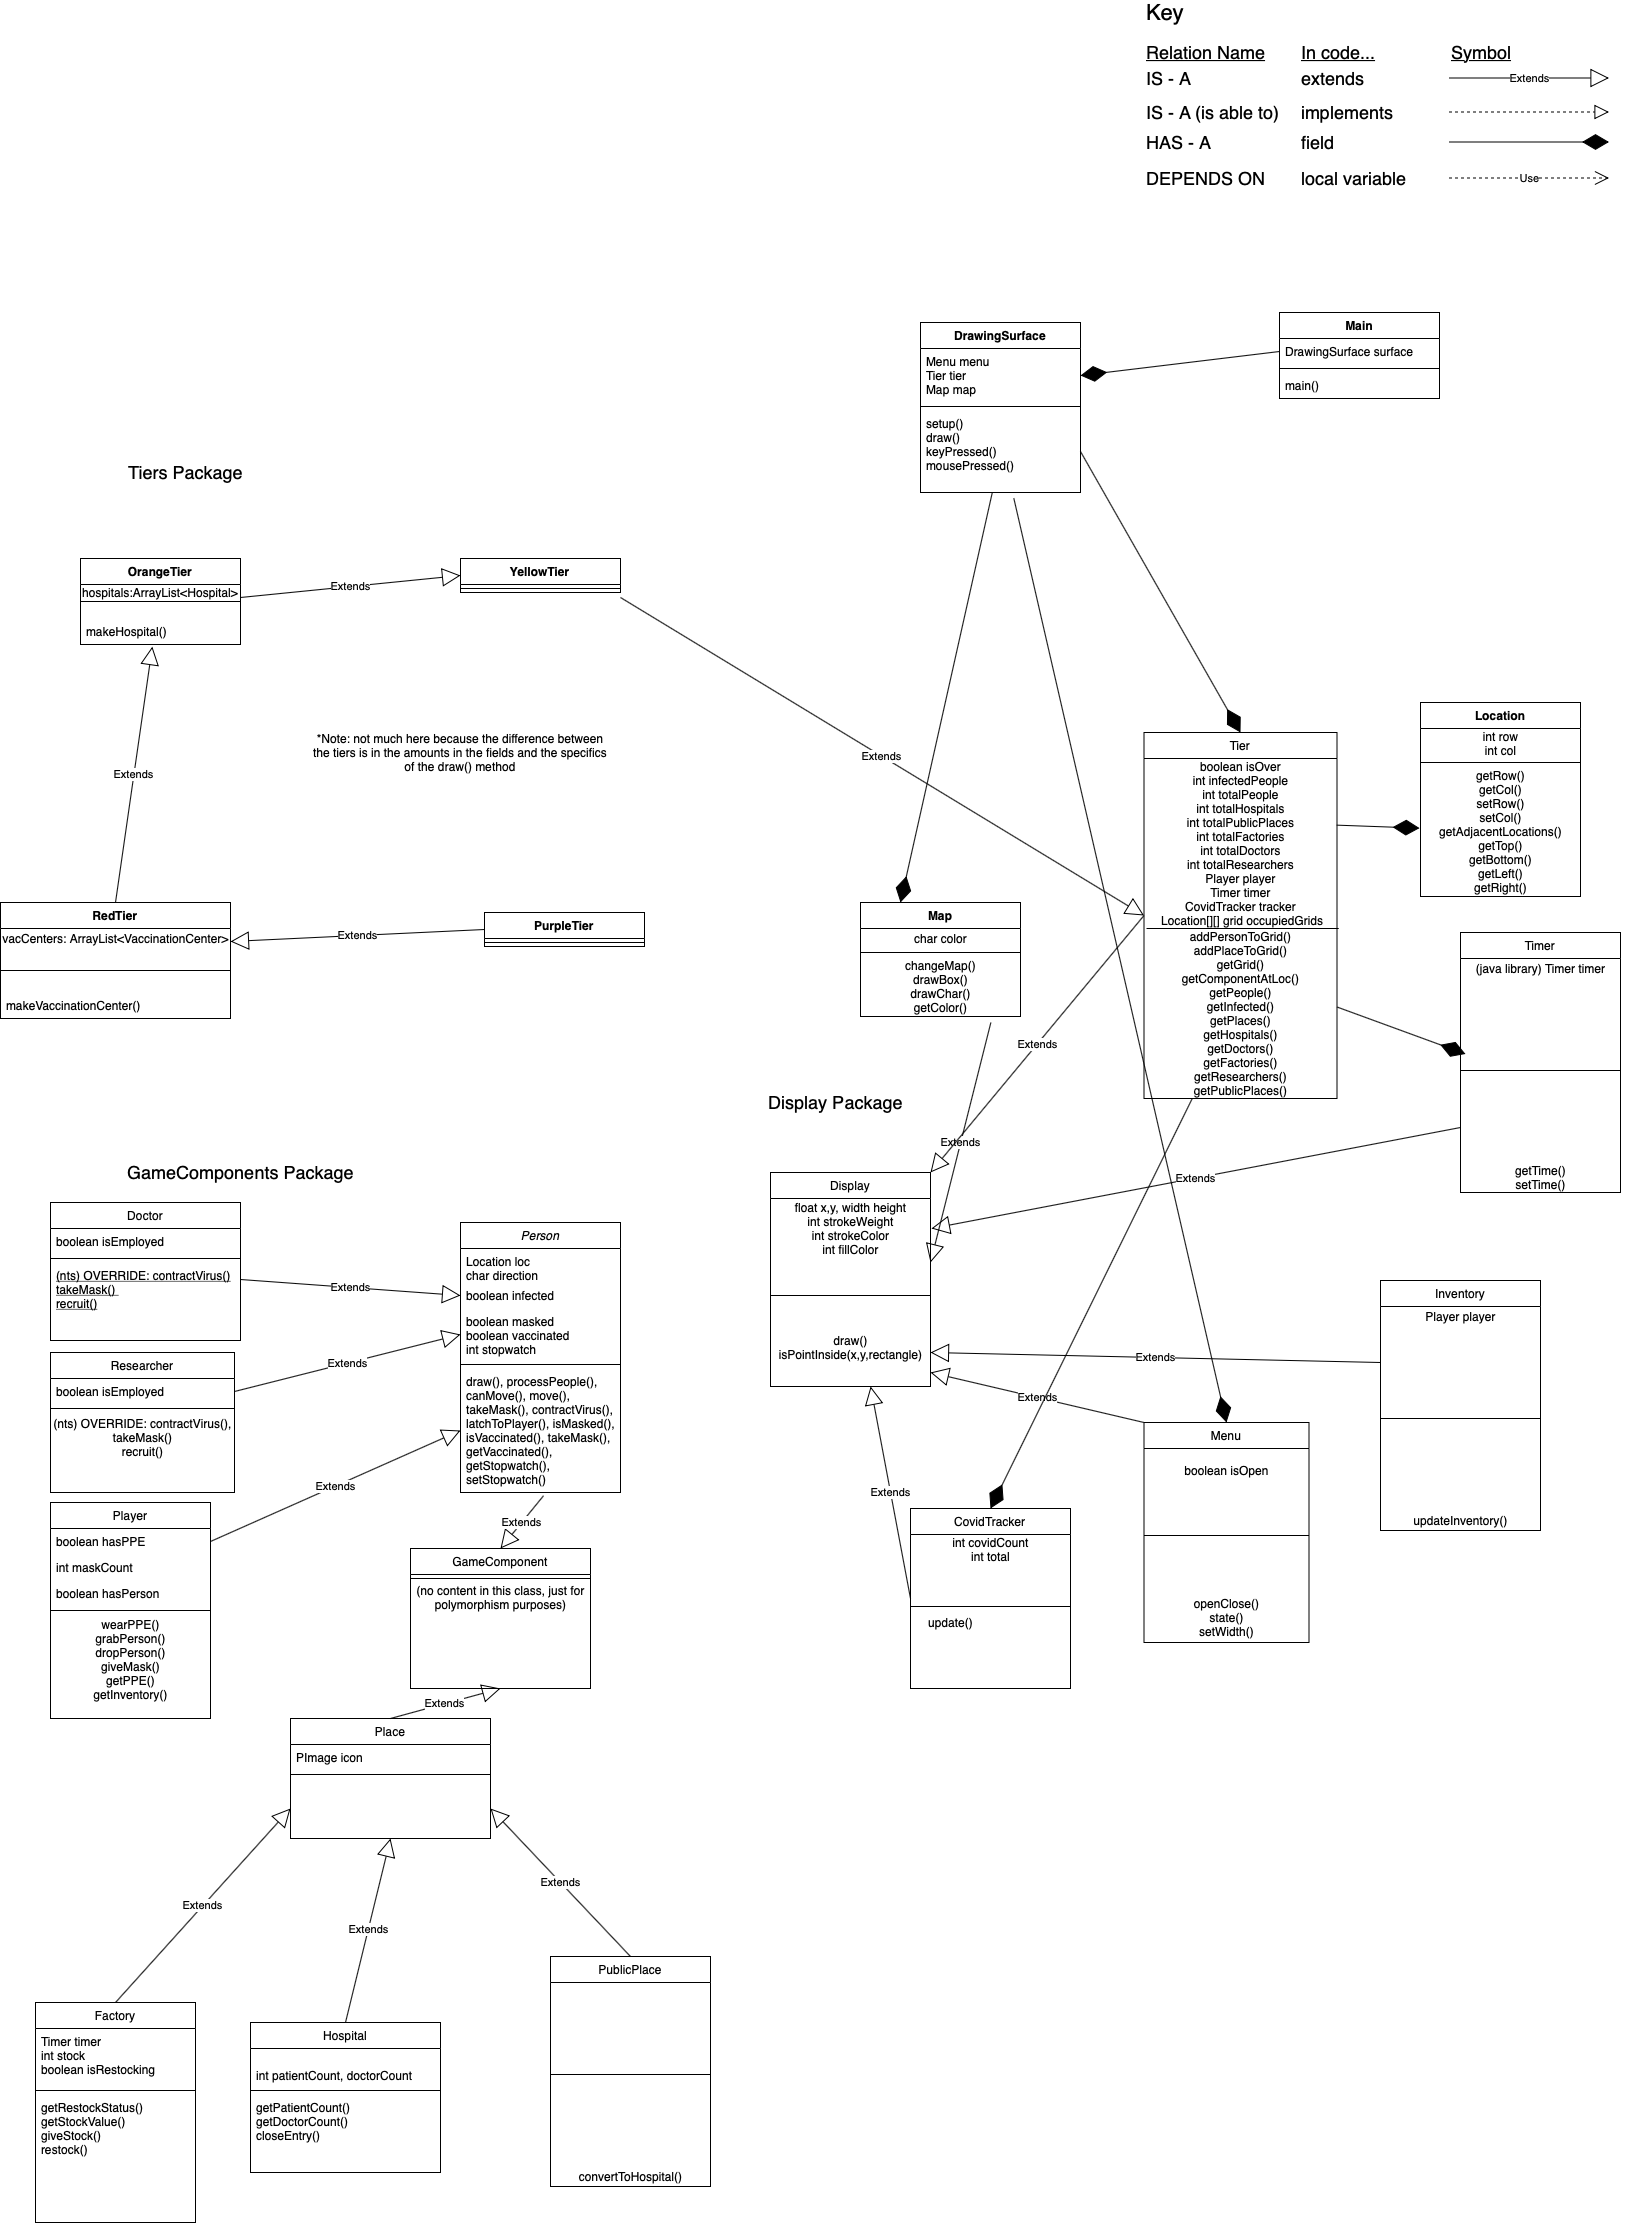
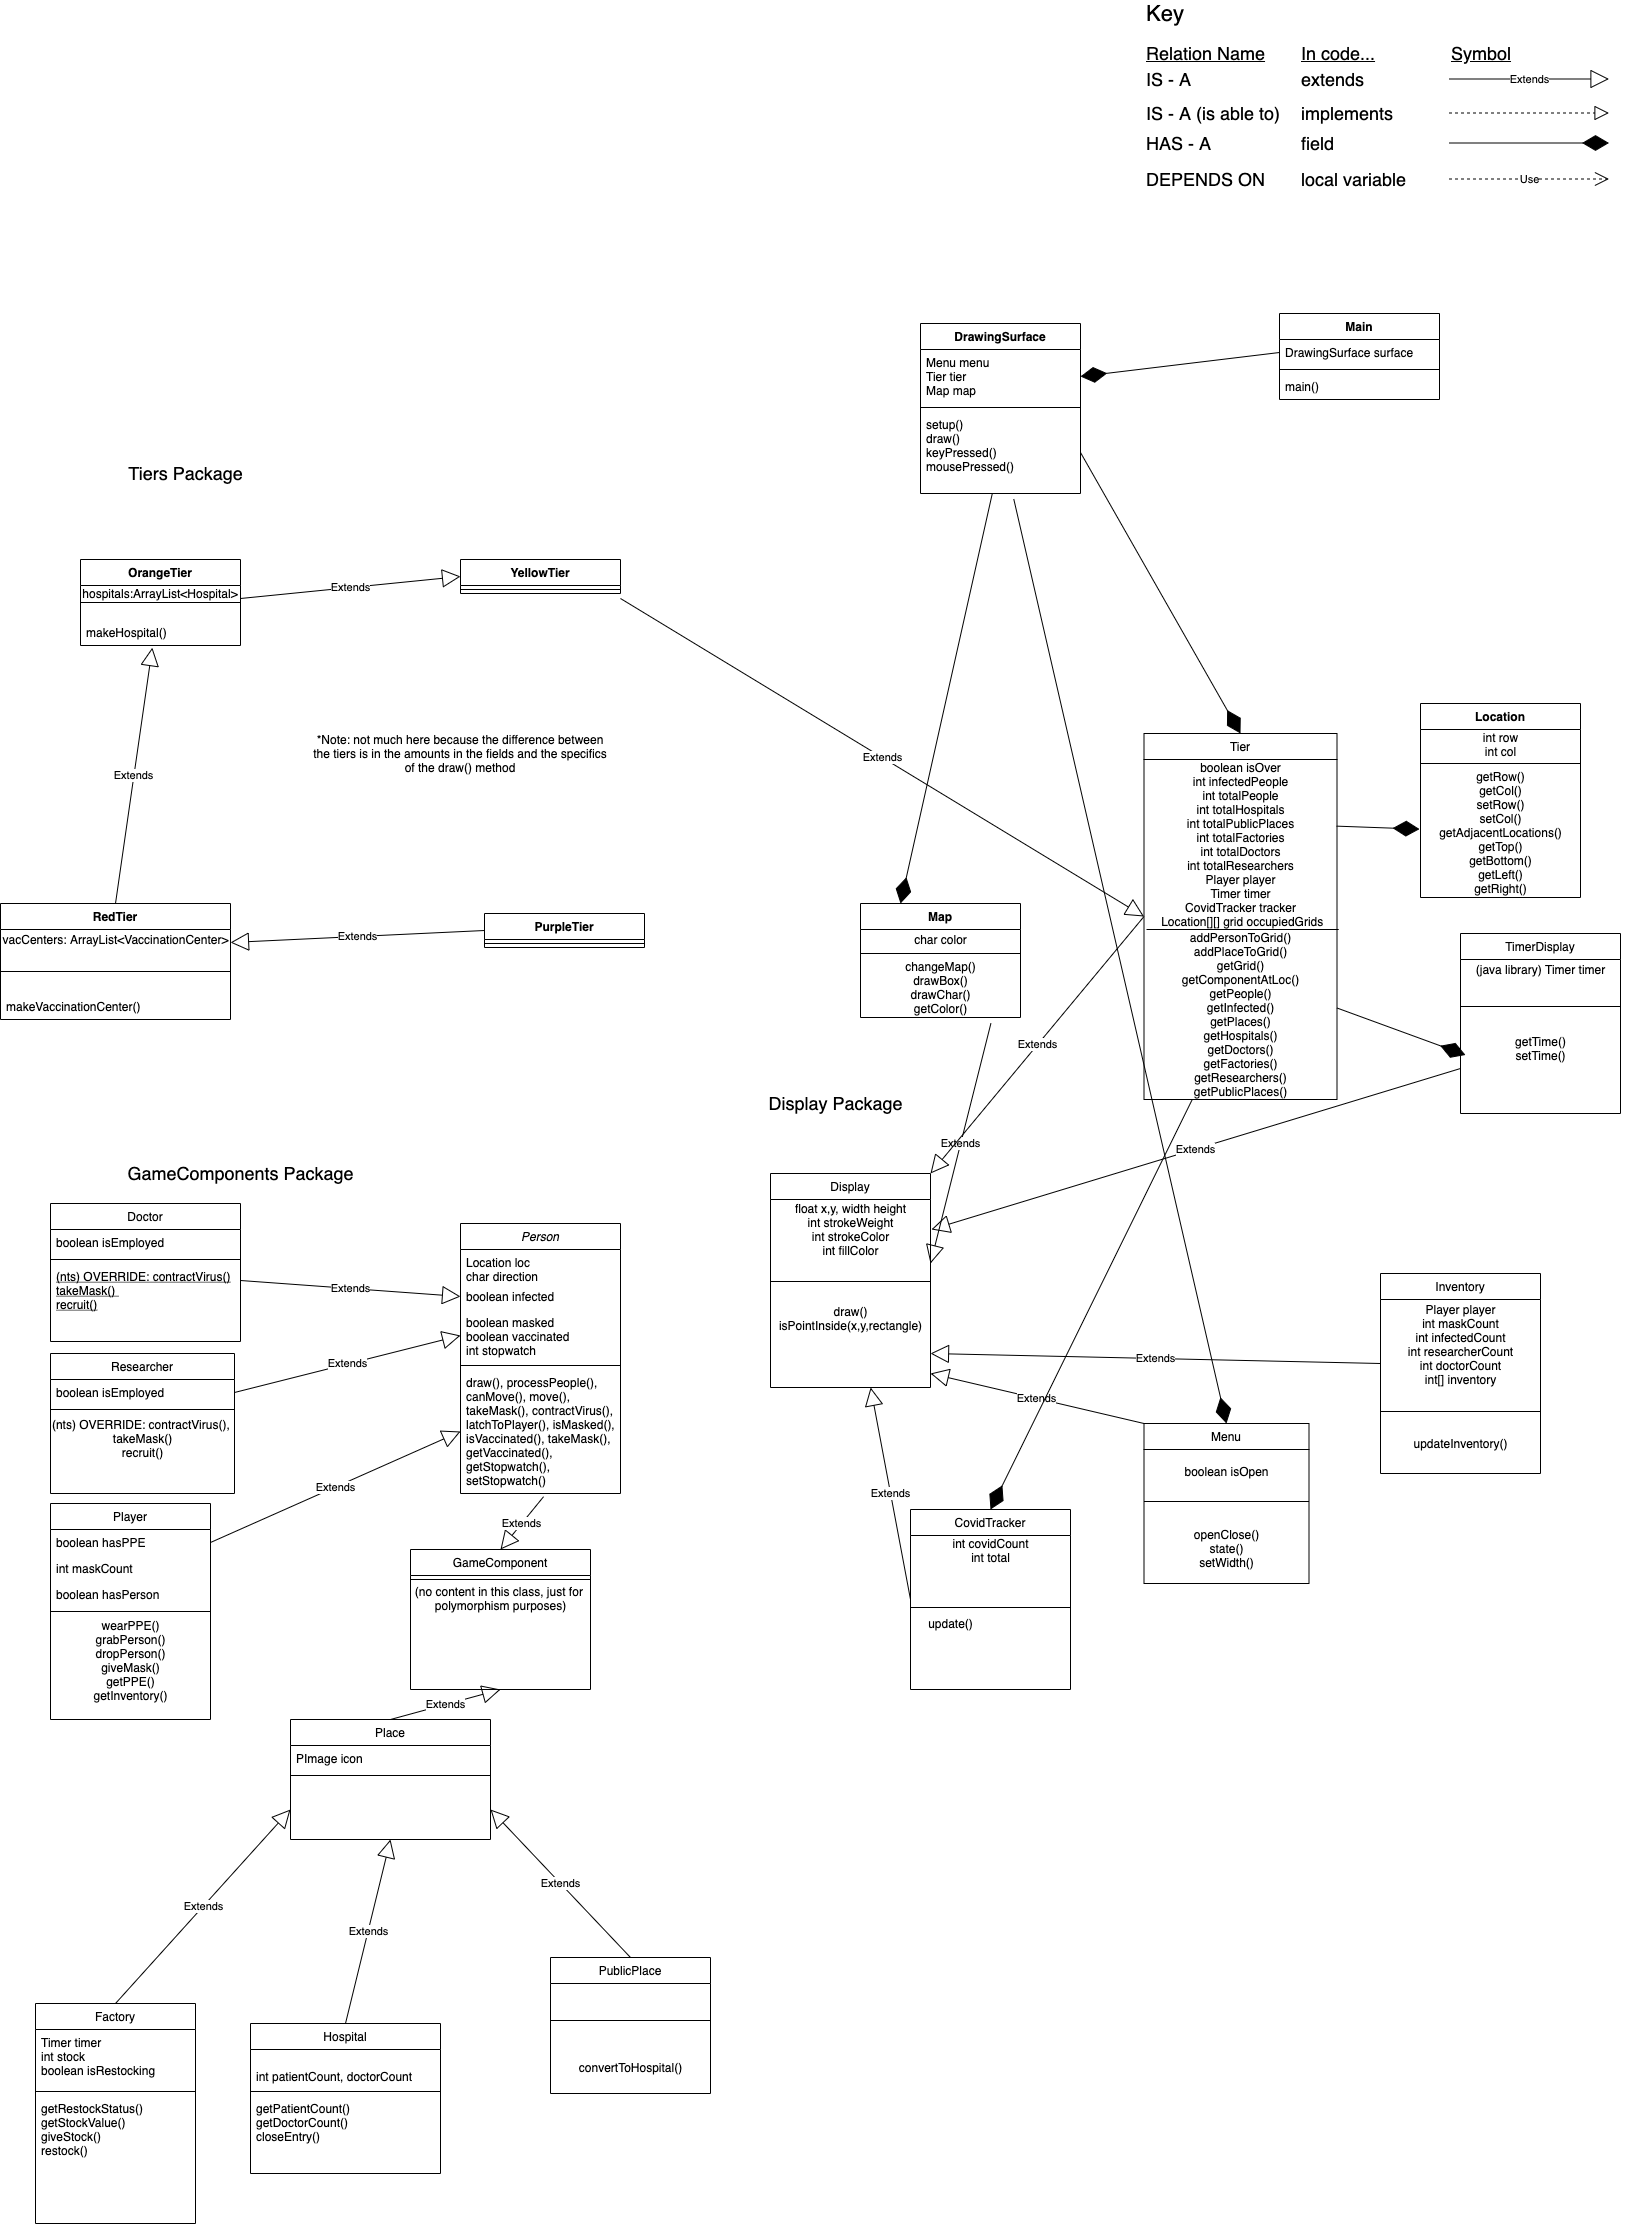
[EDIT] README and UML
-updates

diff --git a/Mask On/src/display/Inventory.java b/Mask On/src/display/Inventory.java
@@ -26,7 +26,7 @@ public class Inventory extends Display{
 		researcherCount =0;
 		infectedCount =0;
 		
-		inventory = new int[4]; //0= infected, 1= doctor, 2= researcher
+		inventory = new int[4]; //0 = mask, 1= infected, 2= doctor, 3= researcher
 	
 	}
 
@@ -63,6 +63,11 @@ public class Inventory extends Display{
 		
 	}
 	
+	/**
+	 * updates the inventory variables S
+	 * @param p Player referenced
+	 * @param t Tier referenced
+	 */
 	public void update(Player p, Tier t) {
 		inventory = p.getInventory();
 		maskCount = inventory[0];

diff --git a/Mask On/src/Main.java b/Mask On/src/Main.java
@@ -23,7 +23,7 @@ public class Main {
 		window.setLocationRelativeTo(null);
 		//making it nonresizable without the weird problems with setResizable()
 		window.setMinimumSize(new Dimension(1000, 750));
-		window.setMaximumSize(new Dimension(1000, 750));
+		//window.setMaximumSize(new Dimension(1000, 750));
 		window.setDefaultCloseOperation(JFrame.EXIT_ON_CLOSE);
 		window.setResizable(true);
 		window.setTitle("Mask On!");
